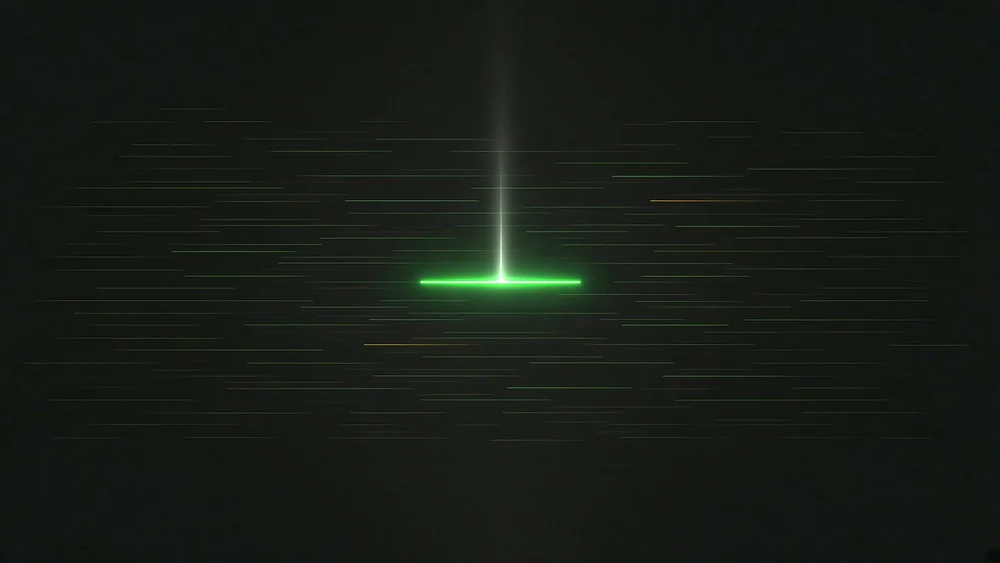
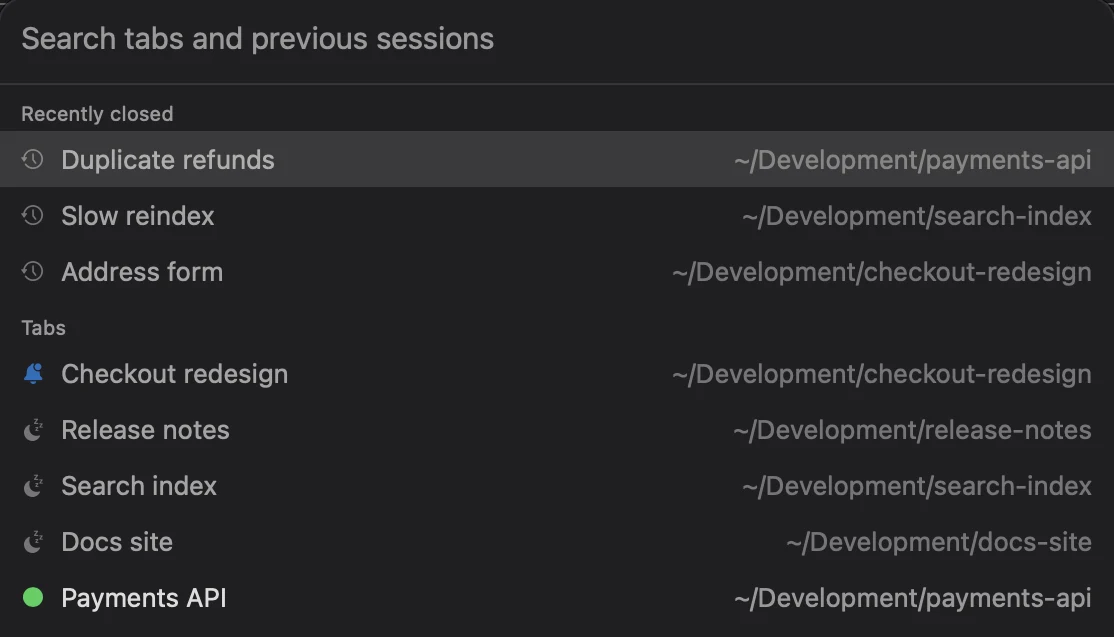
Real product shots instead of generated images
Memory shows the palette finding a session by what was said, Built-in cron
the sidebar, Spare budget a parked task in the inspector. Dreaming goes back
to text only.

Claude-Session: https://claude.ai/code/session_01QQpRBCMqhwvTCC8xDLfZpy

diff --git a/index.html b/index.html
@@ -97,7 +97,7 @@ code{font-family:var(--mono);font-size:.88em}
 footer{padding-block:40px 60px;border-top:1px solid var(--line);color:var(--muted);font-size:14px;display:flex;gap:16px;flex-wrap:wrap;justify-content:space-between}
 @media (max-width:820px){.hero,.two{grid-template-columns:1fr}.grid{grid-template-columns:1fr 1fr}}
 @media (max-width:520px){.grid{grid-template-columns:1fr}.lede{font-size:17px}header.top span{display:none}}
-.withart{display:grid;grid-template-columns:1.35fr 1fr;gap:40px;align-items:center;margin-bottom:32px}.art{display:block;width:100%;height:auto;border-radius:12px}
+.withart{display:grid;grid-template-columns:1.35fr 1fr;gap:40px;align-items:center;margin-bottom:32px}.art{display:block;width:100%;height:auto;border-radius:12px}.art.side{max-width:300px;justify-self:center}.arts{display:grid;gap:12px}
 @media (max-width:820px){.withart{grid-template-columns:1fr;gap:20px}}
 .shot{display:block;width:100%;height:auto;margin-top:28px;border-radius:12px;box-shadow:0 24px 60px -20px rgba(0,0,0,.45)}
 .needs{display:block;margin-top:12px;font:500 13px var(--mono);color:var(--muted)}
@@ -203,11 +203,9 @@ footer{padding-block:40px 60px;border-top:1px solid var(--line);color:var(--mute
 </section>
 
 <section>
-  <div class="withart"><div>
   <p class="kick">Tidies itself</p>
   <h2>Dreaming</h2>
   <p class="intro">Every session writes down what it learned before it is compacted or put to sleep. Over weeks those notes pile up: the same rule in three wordings, old facts that were later proven wrong, long stories where one line would do. And every one of those lines is sent with every request, in every session.</p>
-  </div><img class="art" src="art/dream.webp" width="1000" height="563" loading="lazy" alt=""></div>
   <div class="dream">
     <ul>
       <li><b>Tightens what has grown.</b> Miterm goes through a CLAUDE.md that has grown, entry by entry: rules that say the same thing merged, long stories condensed to the rule they taught, old status and evidence moved to <code>CLAUDE.history.md</code>, open work to the project's backlog.</li>
@@ -234,7 +232,7 @@ footer{padding-block:40px 60px;border-top:1px solid var(--line);color:var(--mute
   <p class="kick">Memory</p>
   <h2>Every session you ever had, one keystroke away.</h2>
   <p class="intro">Every conversation you have had with Claude Code stays on your Mac as a transcript nobody reads again. Miterm makes them findable, by you and by your sessions.</p>
-  </div><img class="art" src="art/memory.webp" width="1000" height="563" loading="lazy" alt=""></div>
+  </div><div class="arts"><img class="art" src="art/memory-search.webp" width="1114" height="190" loading="lazy" alt="The ⌘P palette: searching for refunded twice finds a session titled Duplicate refunds"><img class="art" src="art/memory.webp" width="1114" height="637" loading="lazy" alt="The ⌘P palette with an empty field: recently closed conversations first, then the open tabs"></div></div>
   <div class="grid">
     <div class="feat"><h3>All of it in ⌘P</h3><p>Open tabs and every conversation on disk, by title, folder and what was said. Recently closed comes first, so ⌘P and Return reopens the tab you just closed.</p></div>
     <div class="feat"><h3>Search by meaning</h3><p>Type what you remember, not the exact words. When the words find little, a small Claude model on your own login widens the search to the words such a session would have used.</p></div>
@@ -247,7 +245,7 @@ footer{padding-block:40px 60px;border-top:1px solid var(--line);color:var(--mute
   <p class="kick">Built-in cron</p>
   <h2>Schedules that survive restarts.</h2>
   <p class="intro">Claude Code's own cron runs inside its process, so a session that ends takes its schedule with it. In Miterm, the same <code>/loop</code> and cron tools hand their jobs to the app, which keeps them on disk and fires them itself.</p>
-  </div><img class="art" src="art/cron.webp" width="1000" height="563" loading="lazy" alt=""></div>
+  </div><img class="art side" src="art/cron.webp" width="602" height="752" loading="lazy" alt="Miterm's sidebar: a Cron section listing a nightly job and a command check, above tabs that are asleep"></div>
   <div class="grid">
     <div class="feat"><h3>Survives restarts</h3><p>Jobs live through sleep, restarts of the session and restarts of Miterm. Nothing has to be set up again, and you ask Claude Code for a schedule the way you already do.</p></div>
     <div class="feat"><h3>A loop no longer keeps a tab awake</h3><p>A tab whose next run is more than an hour off can sleep, and Miterm wakes it when the job is due. Its memory is free in between.</p></div>
@@ -261,7 +259,7 @@ footer{padding-block:40px 60px;border-top:1px solid var(--line);color:var(--mute
   <p class="kick">Spare budget</p>
   <h2>Later, when the budget is free</h2>
   <p class="intro">Batch APIs give a discount for work that can wait. A Claude plan has its own version: budget left over when the week resets is simply gone. Type <code>/miterm:later</code> after a task that isn't urgent, and Miterm runs it when that budget would otherwise be lost.</p>
-  </div><img class="art" src="art/later.webp" width="1000" height="563" loading="lazy" alt=""></div>
+  </div><img class="art side" src="art/later.webp" width="517" height="728" loading="lazy" alt="Miterm's inspector: a parked task waiting for spare plan budget, with Run Now and Forget buttons"></div>
   <div class="grid">
     <div class="feat"><h3>Park it in one line</h3><p>The session writes the task down as one self-contained paragraph and ends its turn. Nothing keeps the tab awake while it waits.</p></div>
     <div class="feat"><h3>Runs on spare budget</h3><p>Miterm starts it only when the week is heading for budget it will never use, then at a fresh five-hour window or one about to end with room to spare. Every check is in the log with its projection.</p></div>
